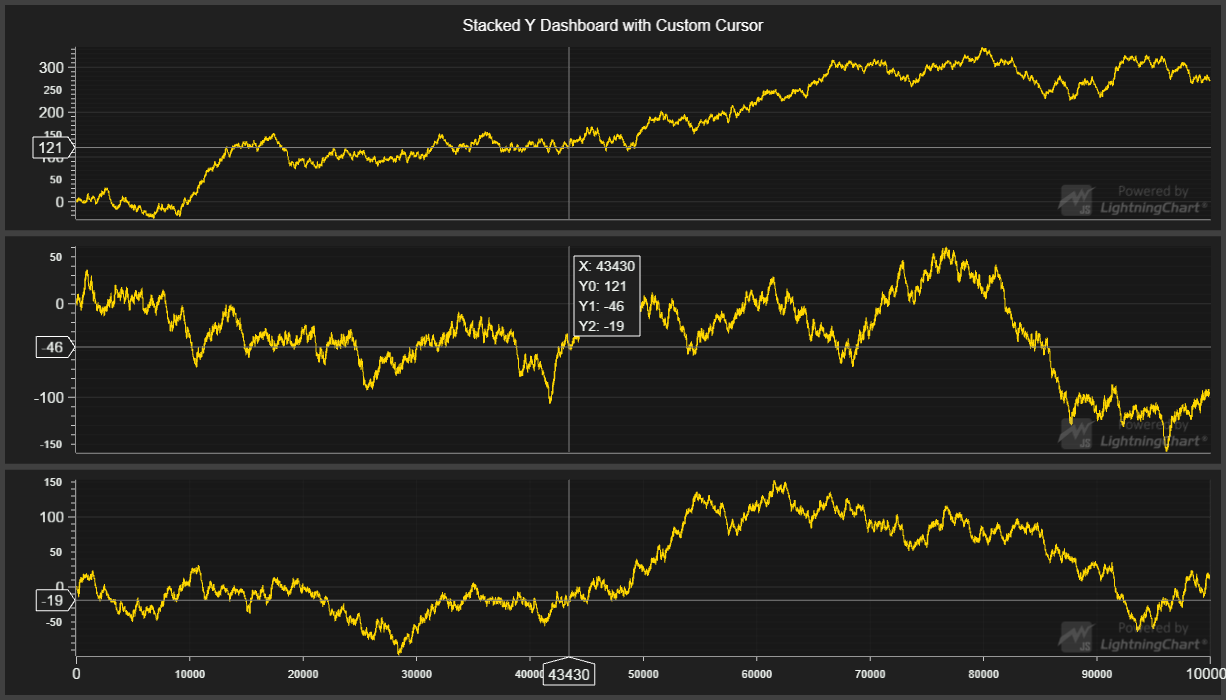
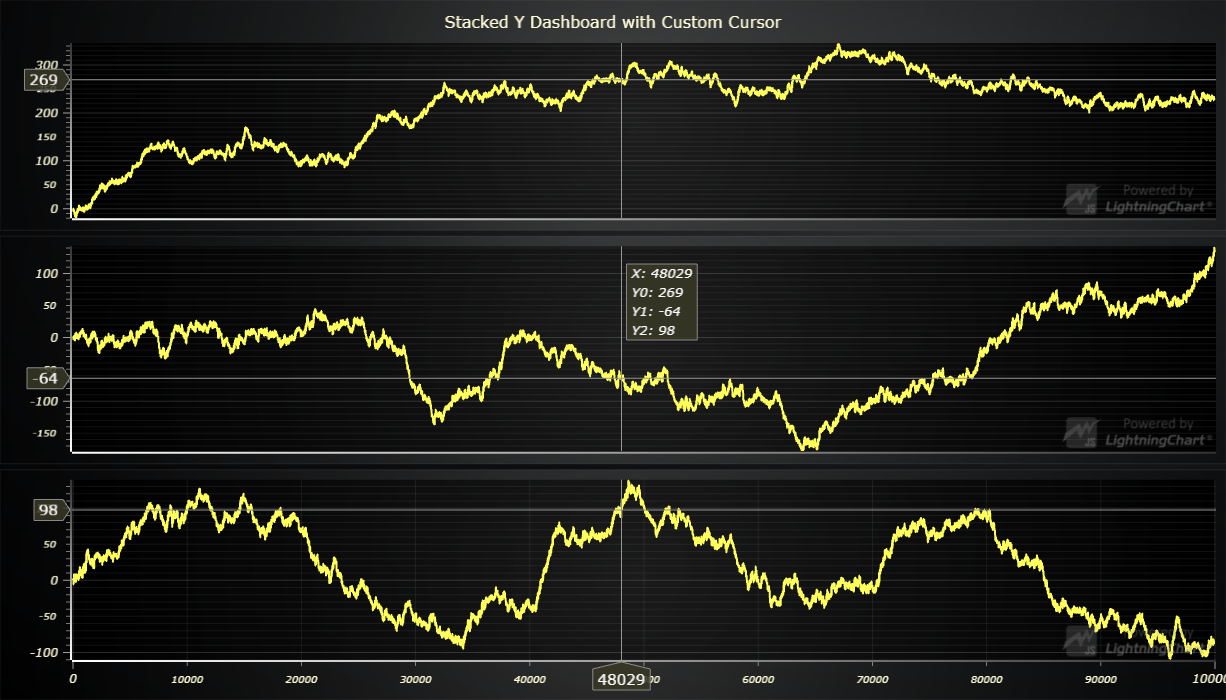
Update LCJS version

Changed region(s): [[0.0, 0.0, 1.0, 1.0]]

diff --git a/src/index.js b/src/index.js
@@ -12,13 +12,10 @@ const {
    AxisTickStrategies,
    AutoCursorModes,
    SolidFill,
-   SolidLine,
-   ColorCSS,
    ColorRGBA,
    translatePoint,
    UILayoutBuilders,
    UIElementBuilders,
-   UIBackgrounds,
    UIOrigins,
    Themes,
 } = lcjs;
@@ -33,7 +30,7 @@ const channelCount = channels.length;
 
 // Create Dashboard.
 const dashboard = lightningChart().Dashboard({
-   // theme: Themes.dark
+   // theme: Themes.darkGold
    numberOfRows: channelCount,
    numberOfColumns: 1,
 });
@@ -86,12 +83,10 @@ const axisX = charts[charts.length - 1].getDefaultAxisX();
 const seriesList = charts.map((chart, i) =>
    chart.addLineSeries({
       dataPattern: {
-         // 'ProgressiveX' = every data points X value is higher than the previous ones X value.
-         pattern: "ProgressiveX",
-         // 'regularProgressiveStep: true' = the step between two consecutive data points is always same.
-         regularProgressiveStep: true,
-      },
-   })
+          // pattern: 'ProgressiveX' => Each consecutive data point has increased X coordinate.
+          pattern: 'ProgressiveX'
+      }
+    })
 );
 
 // Generate and push data to each line series.
@@ -129,43 +124,37 @@ const syncAxisXEventHandler = (axis, start, end) => {
 // Create UI elements for custom cursor.
 const resultTable = dashboard
    .addUIElement(
-      UILayoutBuilders.Column.setBackground(UIBackgrounds.Rectangle),
+      UILayoutBuilders.Column,
       dashboard.engine.scale
    )
    .setMouseInteractions(false)
    .setOrigin(UIOrigins.LeftBottom)
    .setMargin(5)
-   .setBackground((background) =>
-      background.setStrokeStyle(
-         new SolidLine({
-            thickness: 1,
-         })
-      )
+   .setBackground((background) => background
+      // Style same as Theme result table.
+      .setFillStyle(dashboard.getTheme().resultTableFillStyle)
+      .setStrokeStyle(dashboard.getTheme().resultTableStrokeStyle)
    );
+
+const resultTableTextBuilder = UIElementBuilders.TextBox
+   // Style same as Theme result table text.
+   .addStyler(textBox => textBox
+      .setTextFillStyle(dashboard.getTheme().resultTableTextFillStyle)
+   )
 
 const rowX = resultTable
    .addElement(UILayoutBuilders.Row)
-   .addElement(UIElementBuilders.TextBox)
-   .setTextFont((font) => font.setSize(14));
+   .addElement(resultTableTextBuilder)
 
 const rowsY = seriesList.map((el, i) => {
    return resultTable
       .addElement(UILayoutBuilders.Row)
-      .addElement(UIElementBuilders.TextBox)
-      .setTextFont((font) => font.setSize(14));
+      .addElement(resultTableTextBuilder)
 });
 
 const tickX = charts[channelCount - 1]
    .getDefaultAxisX()
    .addCustomTick()
-   .setGridStrokeStyle(
-      new SolidLine({
-         thickness: 1,
-         fillStyle: new SolidFill({
-            color: ColorCSS("gray"),
-         }),
-      })
-   );
 
 const ticksX = [];
 charts.forEach((chart, i) => {
@@ -176,14 +165,8 @@ charts.forEach((chart, i) => {
          .addConstantLine()
          .setValue(0)
          .setMouseInteractions(false)
-         .setStrokeStyle(
-            new SolidLine({
-               thickness: 1,
-               fillStyle: new SolidFill({
-                  color: ColorCSS("gray"),
-               }),
-            })
-         )
+         // Style according to Theme custom tick grid stroke.
+         .setStrokeStyle(chart.getTheme().customTickGridStrokeStyle)
       );
    }
 });
@@ -192,14 +175,6 @@ const ticksY = seriesList.map((el, i) => {
    return charts[i]
       .getDefaultAxisY()
       .addCustomTick()
-      .setGridStrokeStyle(
-         new SolidLine({
-            thickness: 1,
-            fillStyle: new SolidFill({
-               color: ColorCSS("gray"),
-            }),
-         })
-      );
 });
 
 const setCustomCursorVisible = (visible) => {

diff --git a/webpack.config.js b/webpack.config.js
@@ -69,7 +69,8 @@ module.exports = {
         }),
         new CopyWebpackPlugin({
             patterns: [
-                { from: './assets/**/*', to: './examples/assets', flatten: true, noErrorOnMissing: true }
+                { from: './assets/**/*', to: './examples/assets', flatten: true, noErrorOnMissing: true },
+                { from: './node_modules/@arction/lcjs/dist/resources', to: 'resources', noErrorOnMissing: true },
             ]
         })
     ]

diff --git a/README.md b/README.md
@@ -103,18 +103,18 @@ Direct developer email support can be purchased through a [Support Plan][4] or b
 © Arction Ltd 2009-2020. All rights reserved.
 
 
-[Lightning Chart top reference]: https://www.arction.com/lightningchart-js-api-documentation/v3.0.1/interfaces/lightningchart.html
-[Dashboard]: https://www.arction.com/lightningchart-js-api-documentation/v3.0.1/classes/dashboard.html
-[Coordinate system translation method]: https://www.arction.com/lightningchart-js-api-documentation/v3.0.1/globals.html#translatepoint
-[Auto cursor modes]: https://www.arction.com/lightningchart-js-api-documentation/v3.0.1/enums/autocursormodes.html
-[UI element builders]: https://www.arction.com/lightningchart-js-api-documentation/v3.0.1/globals.html#uielementbuilders
-[UI layout builders]: https://www.arction.com/lightningchart-js-api-documentation/v3.0.1/globals.html#uilayoutbuilders
-[UI backgrounds]: https://www.arction.com/lightningchart-js-api-documentation/v3.0.1/globals.html#uibackgrounds
-[UI position origin]: https://www.arction.com/lightningchart-js-api-documentation/v3.0.1/globals.html#uiorigins
-[Color factory css]: https://www.arction.com/lightningchart-js-api-documentation/v3.0.1/globals.html#colorcss
-[Solid fill style]: https://www.arction.com/lightningchart-js-api-documentation/v3.0.1/classes/solidfill.html
-[Solid line style]: https://www.arction.com/lightningchart-js-api-documentation/v3.0.1/classes/solidline.html
-[Chart XY]: https://www.arction.com/lightningchart-js-api-documentation/v3.0.1/classes/chartxy.html
-[Axis XY]: https://www.arction.com/lightningchart-js-api-documentation/v3.0.1/classes/axis.html
-[Custom tick]: https://www.arction.com/lightningchart-js-api-documentation/v3.0.1/classes/customtick.html
+[Lightning Chart top reference]: https://www.arction.com/lightningchart-js-api-documentation/v3.1.0/interfaces/lightningchart.html
+[Dashboard]: https://www.arction.com/lightningchart-js-api-documentation/v3.1.0/classes/dashboard.html
+[Coordinate system translation method]: https://www.arction.com/lightningchart-js-api-documentation/v3.1.0/globals.html#translatepoint
+[Auto cursor modes]: https://www.arction.com/lightningchart-js-api-documentation/v3.1.0/enums/autocursormodes.html
+[UI element builders]: https://www.arction.com/lightningchart-js-api-documentation/v3.1.0/globals.html#uielementbuilders
+[UI layout builders]: https://www.arction.com/lightningchart-js-api-documentation/v3.1.0/globals.html#uilayoutbuilders
+[UI backgrounds]: https://www.arction.com/lightningchart-js-api-documentation/v3.1.0/globals.html#uibackgrounds
+[UI position origin]: https://www.arction.com/lightningchart-js-api-documentation/v3.1.0/globals.html#uiorigins
+[Color factory css]: https://www.arction.com/lightningchart-js-api-documentation/v3.1.0/globals.html#colorcss
+[Solid fill style]: https://www.arction.com/lightningchart-js-api-documentation/v3.1.0/classes/solidfill.html
+[Solid line style]: https://www.arction.com/lightningchart-js-api-documentation/v3.1.0/classes/solidline.html
+[Chart XY]: https://www.arction.com/lightningchart-js-api-documentation/v3.1.0/classes/chartxy.html
+[Axis XY]: https://www.arction.com/lightningchart-js-api-documentation/v3.1.0/classes/axis.html
+[Custom tick]: https://www.arction.com/lightningchart-js-api-documentation/v3.1.0/classes/customtick.html
 
